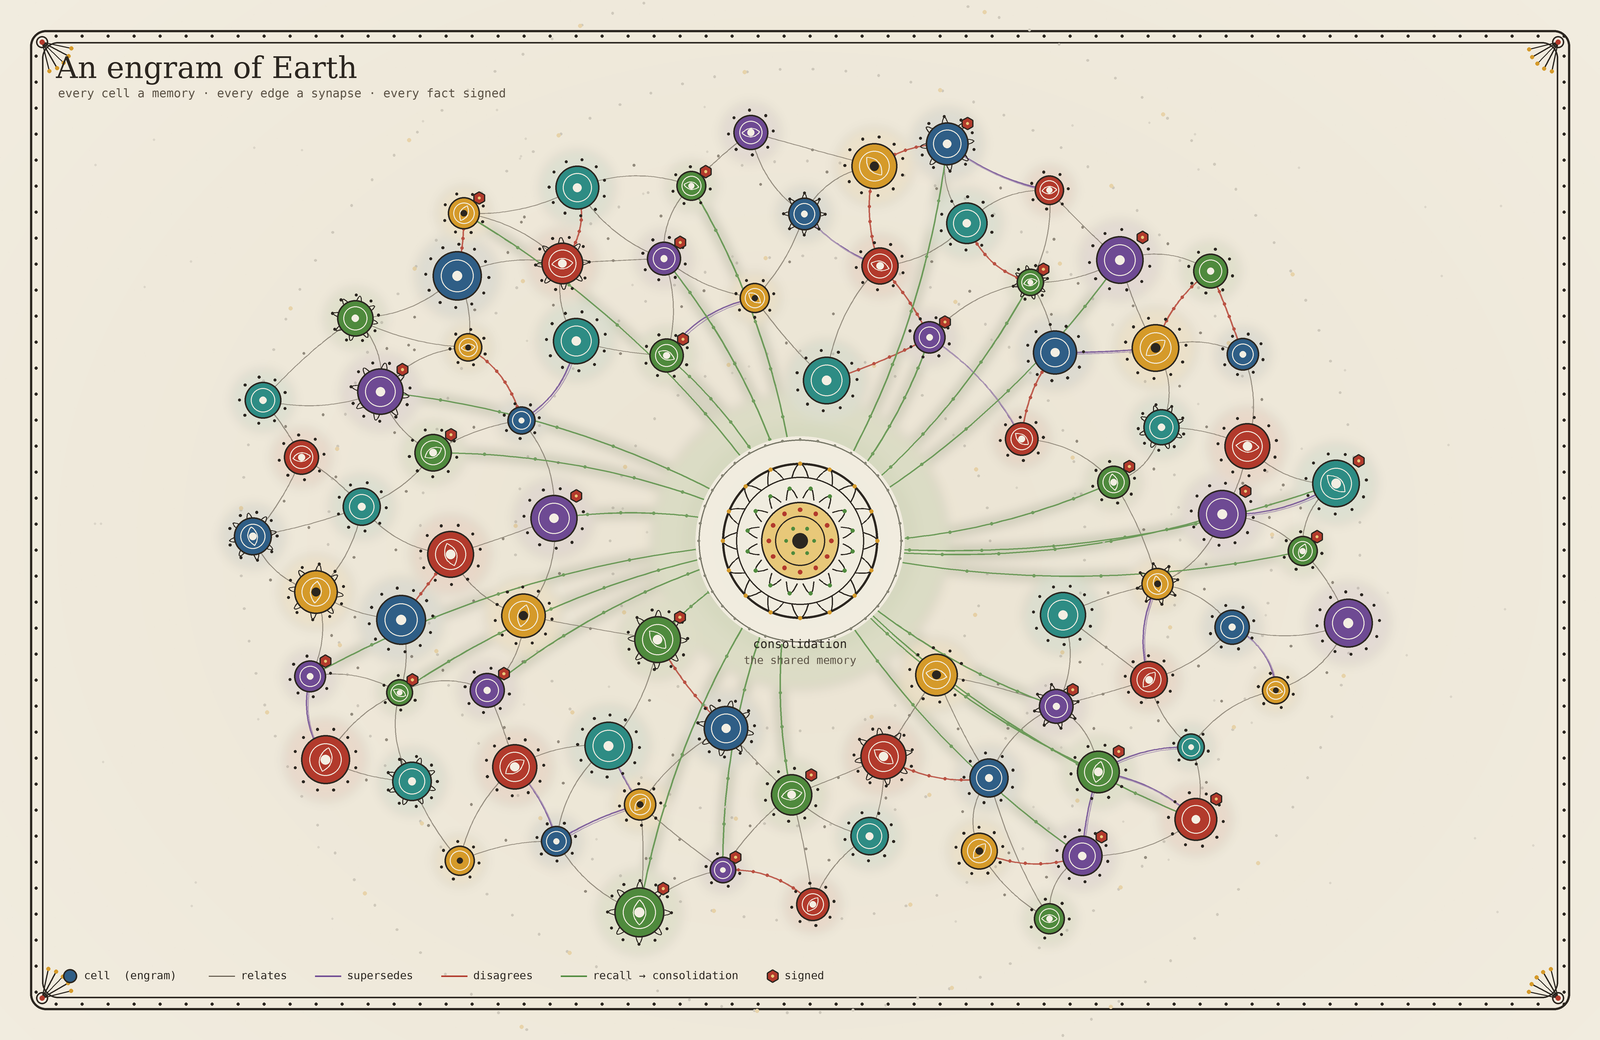
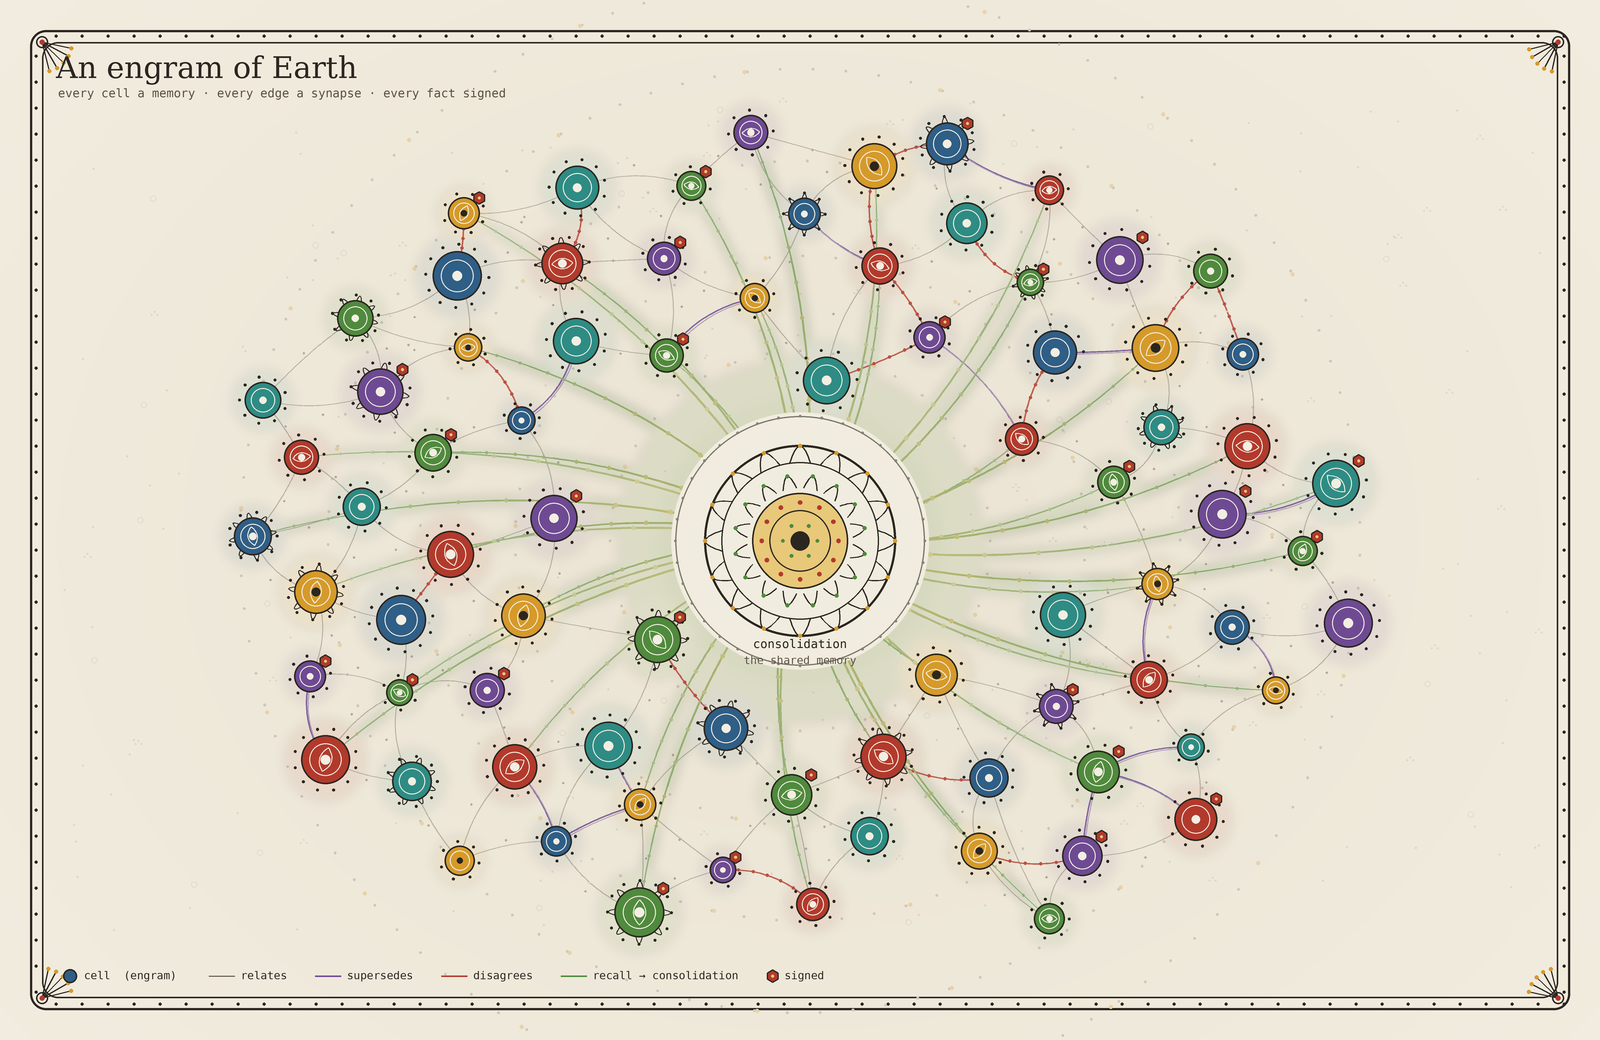
docs(readme): tune the engram hero to hit harder
Foreground the recall. Half the cells now send a luminous stream of signed
facts inward, each warming from leaf-green at the cell to gold at the lotus and
thickening as it flows in, while the resting relates-edges recede to faint ink
so the motion reads cleanly. Add a glowing consolidation pulse at the heart and
denser Mithila ground (dots, three-dot clusters, tiny rings) so no paper sits
dead. Deterministic, same kit, same palette.

diff --git a/scripts/gen_memory_engram.py b/scripts/gen_memory_engram.py
@@ -254,33 +254,61 @@ for idx, (i, j) in enumerate(edges):
     elif kind == 1:    # supersedes — lac, doubled
         polyline(di, pts, LAC, 1.6, a=210)
         polyline(di, [(p[0] + 1.6, p[1] + 1.6) for p in pts], LAC, 0.9, a=120)
-    else:              # relates_to — ink hairline with mid bead
-        polyline(di, pts, INK_SOFT, 1.0, a=150)
-        dot(di, ctrl[0], ctrl[1], 1.3, INK_SOFT, a=160)
+    else:              # relates_to — faint ink hairline, a resting synapse
+        polyline(di, pts, INK_SOFT, 0.9, a=92)
+        dot(di, ctrl[0], ctrl[1], 1.1, INK_SOFT, a=105)
 
-# recall pathways to the lotus (glow under), from every 3rd node
-for i, a in enumerate(nodes):
-    if i % 3 != 0:
-        continue
+
+def blend(c1, c2, t):
+    t = max(0.0, min(1.0, t))
+    return tuple(int(c1[k] + (c2[k] - c1[k]) * t) for k in range(3))
+
+
+# recall pathways — the hero motion. half the cells send a luminous stream of
+# signed facts inward; each warms from leaf-green at the cell to gold at the
+# lotus and thickens as it flows in, while the resting web stays faint ink.
+recall_nodes = [n for i, n in enumerate(nodes) if i % 2 == 0]
+for ridx, a in enumerate(recall_nodes):
     mx, my = (a[0] + CX) / 2, (a[1] + CY) / 2
-    ctrl = (mx + (CY - a[1]) * 0.12, my - (CX - a[0]) * 0.12)
-    pts = bez((a[0], a[1]), ctrl, (CX, CY), 60)
-    polyline(dg, pts, LEAF, 7.0, a=60)
-    polyline(di, pts, LEAF, 1.5, a=200)
-    for k in range(0, len(pts), 8):
-        dot(di, pts[k][0], pts[k][1], 1.6, LEAF, a=190)
+    ctrl = (mx + (CY - a[1]) * 0.14, my - (CX - a[0]) * 0.14)
+    pts = bez((a[0], a[1]), ctrl, (CX, CY), 80)
+    bright = 0.55 + 0.45 * (math.sin(ridx * 1.7) * 0.5 + 0.5)   # some streams pulse stronger
+    polyline(dg, pts, LEAF, 12.0, a=int(30 * bright))
+    polyline(dg, pts, LEAF, 6.5, a=int(58 * bright))
+    for k in range(len(pts) - 1):
+        t = k / (len(pts) - 1)
+        col = blend(LEAF, GOLD_PALE, t ** 1.5)
+        w = 1.1 + 1.7 * t
+        polyline(di, [pts[k], pts[k + 1]], col, w, a=int((140 + 100 * t) * (0.6 + 0.4 * bright)))
+    nb = 11
+    for b in range(nb):
+        t = (b + 1) / (nb + 1)
+        ix = int((t ** 1.4) * (len(pts) - 1))
+        col = blend(LEAF, GOLD_PALE, t)
+        dot(di, pts[ix][0], pts[ix][1], 1.1 + 1.5 * t, col, a=int((140 + 100 * t) * bright))
 
-# faint background motifs for mithila density (under everything visually, drawn
-# on ink layer at low alpha in the gaps)
-for _ in range(120):
-    x, y = random.uniform(60, W - 60), random.uniform(96, H - 110)
+# mithila density: fill the gaps with faint dots, three-dot clusters, and tiny
+# rings so no paper sits dead, the way a mithila ground is never left empty.
+for _ in range(300):
+    x, y = random.uniform(58, W - 58), random.uniform(100, H - 108)
     if dist((x, y, 0, 0), (CX, CY, 0, 0)) < 150:
         continue
-    if any(dist((x, y), (n[0], n[1])) < n[2] * 2.0 for n in nodes):
+    if any(dist((x, y), (n[0], n[1])) < n[2] * 1.9 for n in nodes):
         continue
-    di.ellipse([S(x - 1.1), S(y - 1.1), S(x + 1.1), S(y + 1.1)], fill=rgba(INK, 26))
+    rnd = random.random()
+    if rnd < 0.68:
+        di.ellipse([S(x - 1.0), S(y - 1.0), S(x + 1.0), S(y + 1.0)], fill=rgba(INK, 24))
+    elif rnd < 0.88:
+        for dx, dy in ((-3, 0), (3, 0), (0, -3)):
+            di.ellipse([S(x + dx - 0.9), S(y + dy - 0.9), S(x + dx + 0.9), S(y + dy + 0.9)], fill=rgba(INK, 22))
+    else:
+        circle(di, x, y, 3.0, outline=INK, w=0.8, a=22)
 
-lotus(CX, CY, 78)
+# consolidation pulse — the heart glows as memory settles into it
+for pr, pa in ((150, 28), (118, 30), (92, 40)):
+    circle(dg, CX, CY, pr, outline=GOLD_PALE, w=8, a=pa)
+
+lotus(CX, CY, 96)
 
 for i, (x, y, r, fam) in enumerate(nodes):
     node(x, y, r, FAMILIES[fam],
